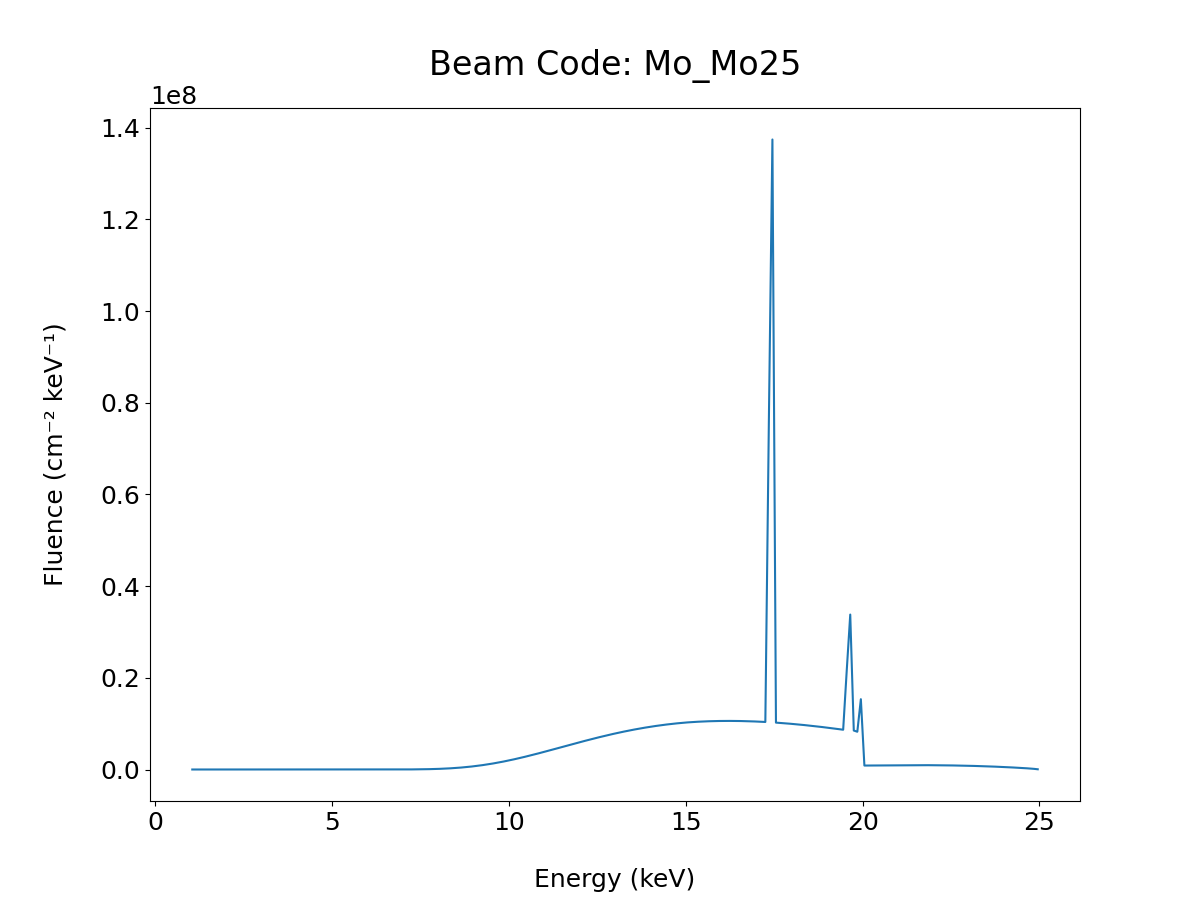
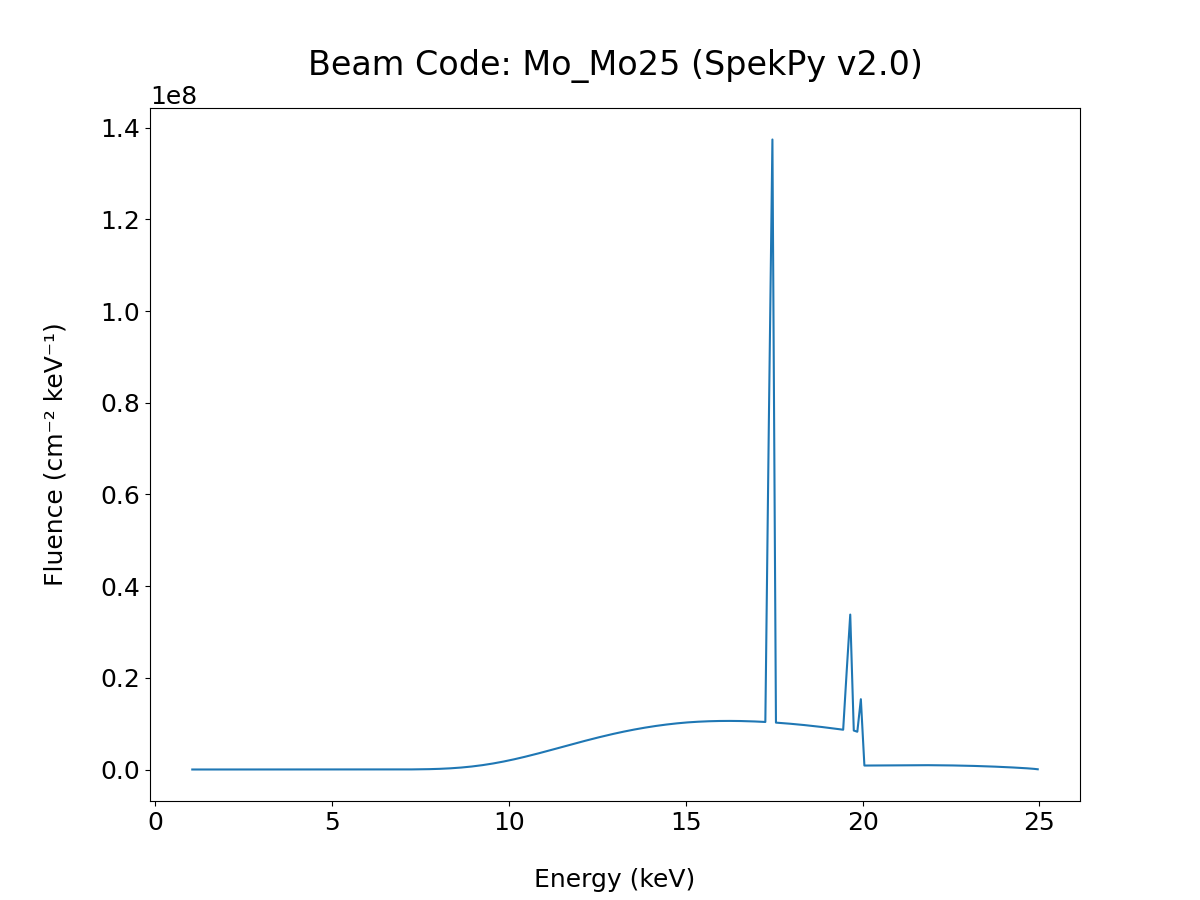
New graph titles

Changed region(s): [[0.2467, 0.0311, 0.7708, 0.0933]]

diff --git a/main.py b/main.py
@@ -40,7 +40,7 @@ for name, kVp, Mo, Rh, Al, mA in params:
     plt.plot(spectra[0], spectra[1])
     plt.xlabel("Energy (keV)", fontsize=18, labelpad=24)
     plt.ylabel("Fluence (cm⁻² keV⁻¹)", fontsize=18, labelpad=24)
-    plt.title(f"Beam Code: {name}", fontsize=24, pad=24)
+    plt.title(f"Beam Code: {name} (SpekPy v2.0)", fontsize=24, pad=24)
     plt.savefig(f"./results/{name}.png")
     plt.clf()
 
